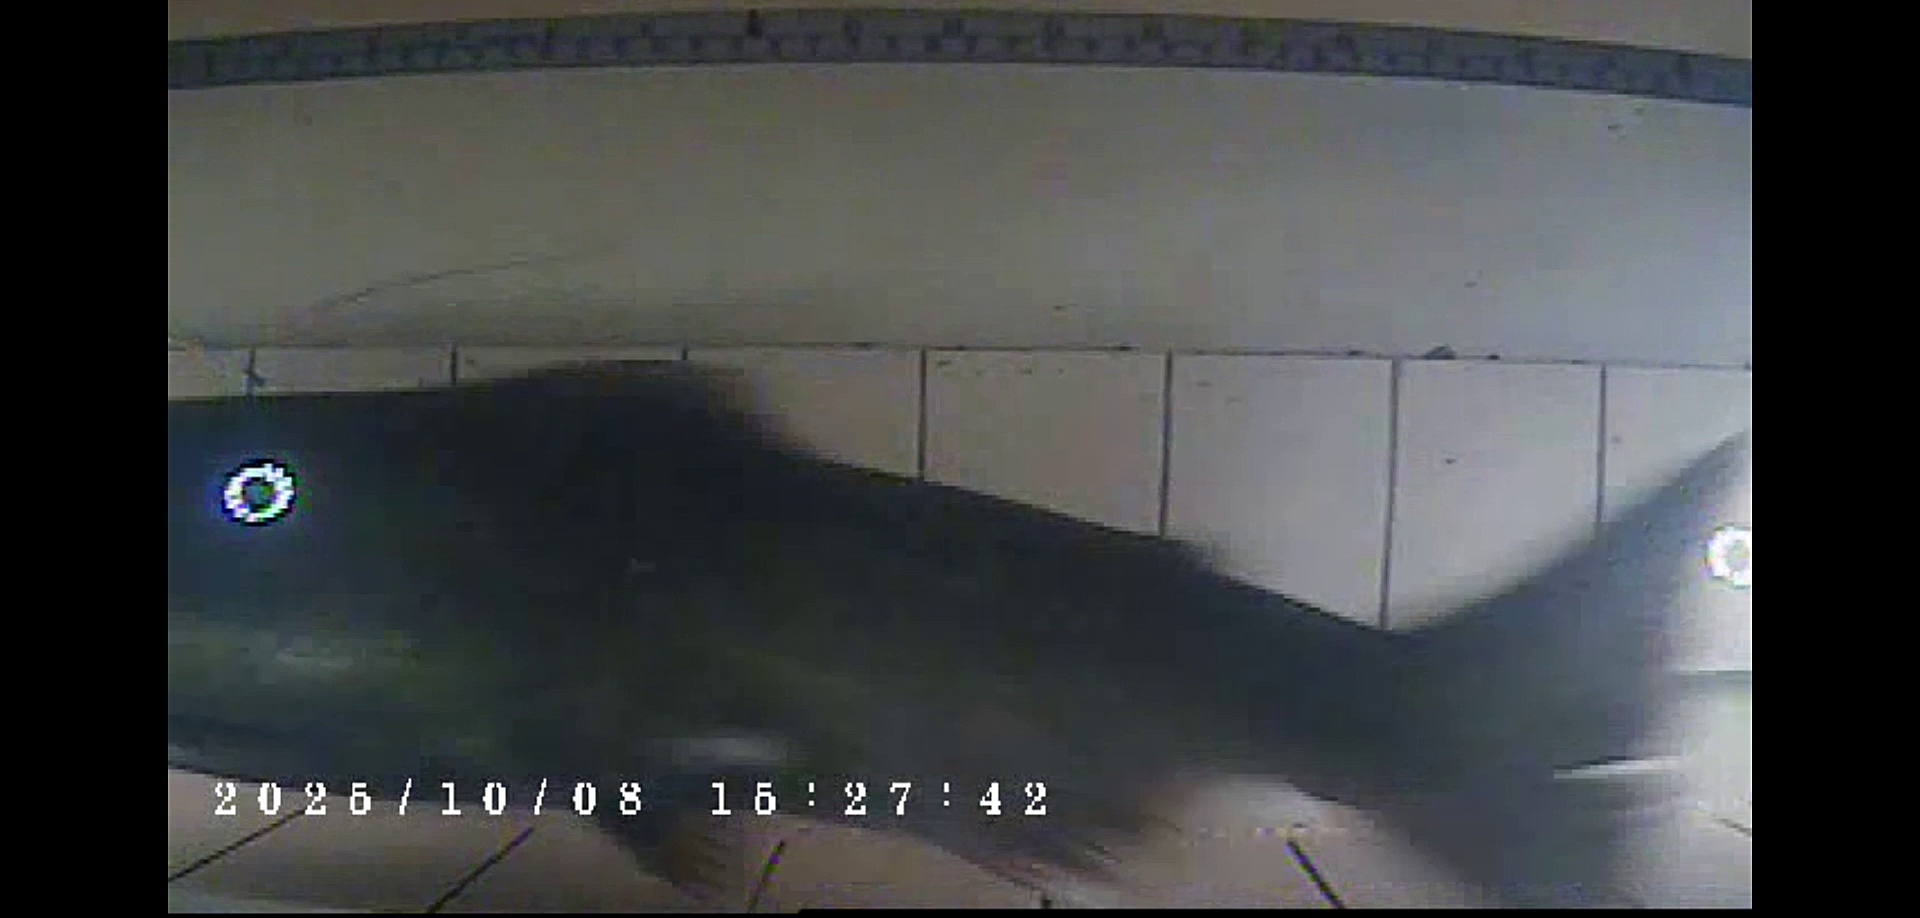
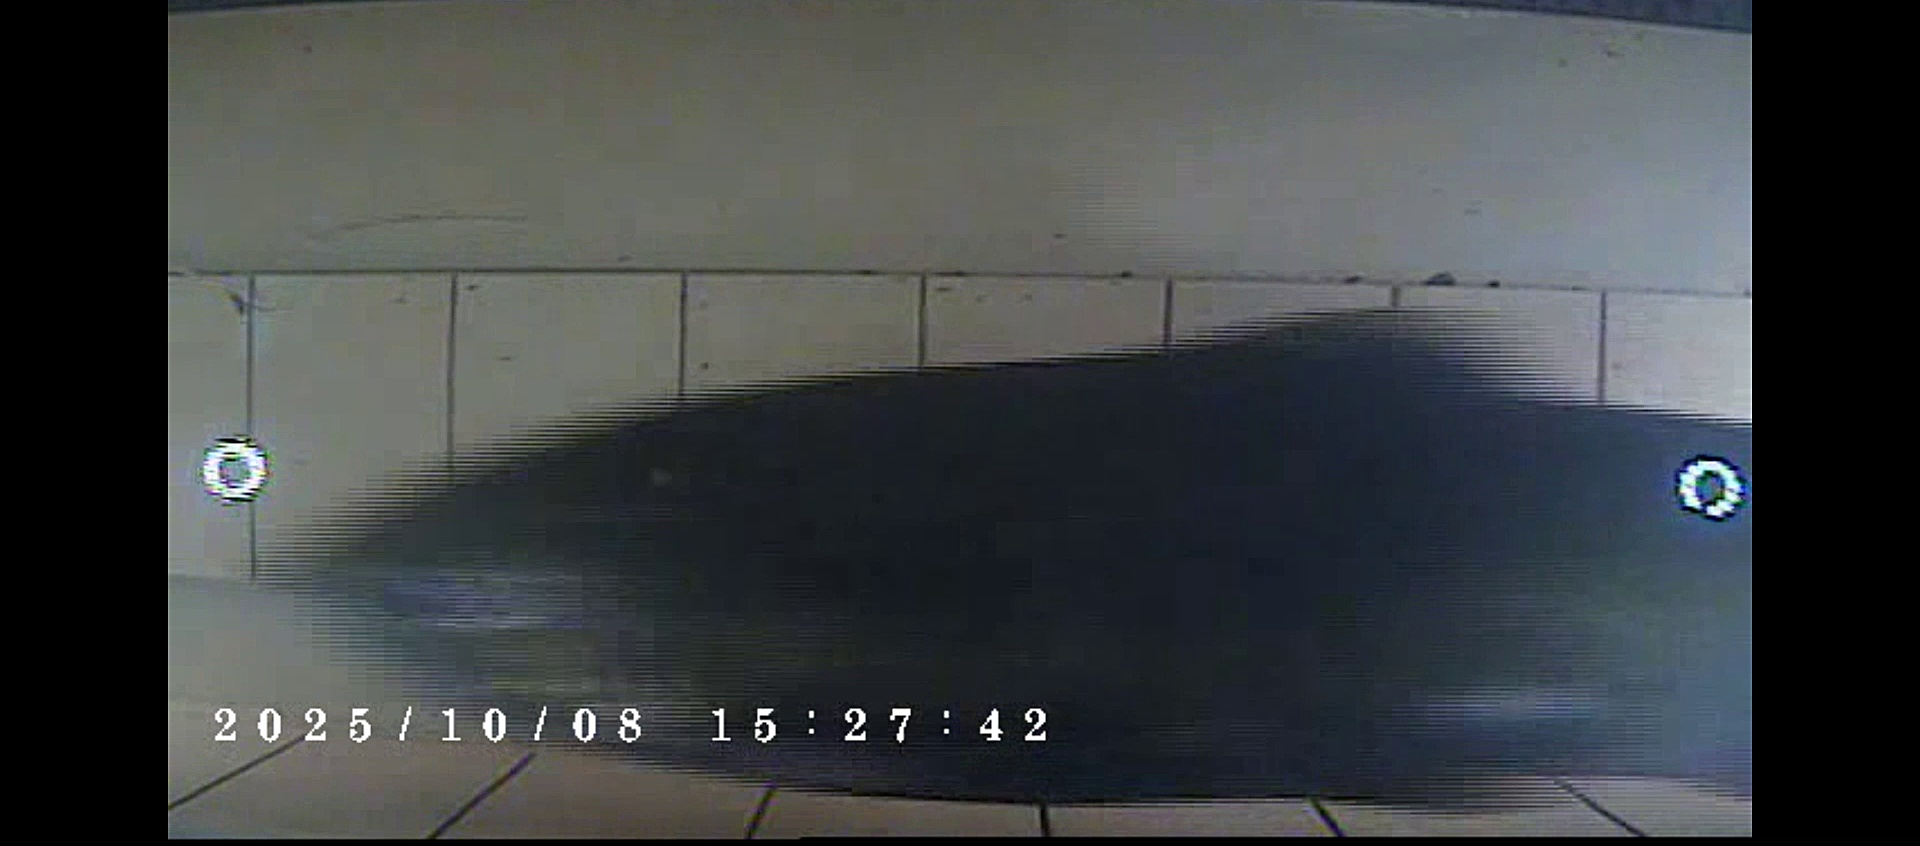
Added 5 and 6 reference images to fix distinction

diff --git a/extract_timestamp.py b/extract_timestamp.py
@@ -8,10 +8,175 @@ import cv2
 import numpy as np
 import pytesseract
 import re
-from datetime import datetime
+import os
+from datetime import datetime, timedelta
 from collections import Counter
 
 pytesseract.pytesseract.tesseract_cmd = r'C:\Program Files\Tesseract-OCR\tesseract.exe'
+
+DIGIT_TEMPLATE_DIR = os.path.join(os.path.dirname(__file__), "ocr_digit_templates")
+AMBIGUOUS_DIGITS = {"5", "6"}
+TEMPLATE_SIZE = (20, 32)
+TEMPLATE_SINGLE_MAX_DIFF = float(os.getenv("FISHLENS_DIGIT_TEMPLATE_MAX_DIFF", "35"))
+TEMPLATE_SWITCH_MARGIN = float(os.getenv("FISHLENS_DIGIT_TEMPLATE_SWITCH_MARGIN", "6"))
+_DIGIT_TEMPLATE_CACHE = None
+_DIGIT_TEMPLATE_CACHE_MTIMES = None
+
+
+def _normalize_digit_patch(patch):
+    if patch is None or patch.size == 0:
+        return None
+    if len(patch.shape) == 3 and patch.shape[2] > 1:
+        patch = cv2.cvtColor(patch, cv2.COLOR_BGR2GRAY)
+    elif len(patch.shape) == 3 and patch.shape[2] == 1:
+        patch = patch[:, :, 0]
+    patch = cv2.resize(patch, TEMPLATE_SIZE, interpolation=cv2.INTER_AREA)
+    _, patch = cv2.threshold(patch, 0, 255, cv2.THRESH_BINARY + cv2.THRESH_OTSU)
+    return patch
+
+
+def _load_digit_templates():
+    global _DIGIT_TEMPLATE_CACHE, _DIGIT_TEMPLATE_CACHE_MTIMES
+    if _DIGIT_TEMPLATE_CACHE is not None and _DIGIT_TEMPLATE_CACHE_MTIMES is not None:
+        # If template files have not changed, reuse cache.
+        unchanged = True
+        for digit in AMBIGUOUS_DIGITS:
+            found_path = None
+            for ext in ("png", "PNG", "jpg", "JPG", "jpeg", "JPEG"):
+                p = os.path.join(DIGIT_TEMPLATE_DIR, f"{digit}.{ext}")
+                if os.path.exists(p):
+                    found_path = p
+                    break
+
+            prev = _DIGIT_TEMPLATE_CACHE_MTIMES.get(digit)
+            cur = os.path.getmtime(found_path) if found_path and os.path.exists(found_path) else None
+            if prev != cur:
+                unchanged = False
+                break
+
+        if unchanged:
+            return _DIGIT_TEMPLATE_CACHE
+
+    # Rebuild cache when first loading or when template files changed.
+    if _DIGIT_TEMPLATE_CACHE is not None:
+        _DIGIT_TEMPLATE_CACHE = None
+        _DIGIT_TEMPLATE_CACHE_MTIMES = None
+
+    if _DIGIT_TEMPLATE_CACHE is not None:
+        return _DIGIT_TEMPLATE_CACHE
+
+    templates = {}
+    mtimes = {}
+    for digit in AMBIGUOUS_DIGITS:
+        path = None
+        for ext in ("png", "PNG", "jpg", "JPG", "jpeg", "JPEG"):
+            candidate = os.path.join(DIGIT_TEMPLATE_DIR, f"{digit}.{ext}")
+            if os.path.exists(candidate):
+                path = candidate
+                break
+
+        if not path:
+            continue
+
+        img = cv2.imread(path, cv2.IMREAD_GRAYSCALE)
+        if img is None:
+            continue
+
+        normalized = _normalize_digit_patch(img)
+        if normalized is not None:
+            templates[digit] = normalized
+            mtimes[digit] = os.path.getmtime(path)
+
+    _DIGIT_TEMPLATE_CACHE = templates
+    _DIGIT_TEMPLATE_CACHE_MTIMES = mtimes
+    return _DIGIT_TEMPLATE_CACHE
+
+
+def _resolve_ambiguous_digit(char_img, raw_char):
+    templates = _load_digit_templates()
+    if raw_char not in AMBIGUOUS_DIGITS or not templates:
+        return raw_char
+
+    normalized = _normalize_digit_patch(char_img)
+    if normalized is None:
+        return raw_char
+
+    scores = {}
+    for digit, template in templates.items():
+        diff = cv2.absdiff(normalized, template)
+        scores[digit] = float(np.mean(diff))
+
+    if not scores:
+        return raw_char
+
+    if len(scores) == 1:
+        only_digit, only_score = next(iter(scores.items()))
+        # With only one template present, never force-convert to the other digit.
+        # This avoids cases where missing 5.png causes 5 -> 6 flips.
+        if only_digit == raw_char and only_score <= TEMPLATE_SINGLE_MAX_DIFF:
+            return raw_char
+        return raw_char
+
+    best_digit = min(scores, key=scores.get)
+    best_score = scores[best_digit]
+    raw_score = scores.get(raw_char)
+
+    # If the best template match is still poor, keep Tesseract's original digit.
+    if best_score > TEMPLATE_SINGLE_MAX_DIFF:
+        return raw_char
+
+    # Keep original when it is already the best match.
+    if best_digit == raw_char:
+        return raw_char
+
+    # Only switch digits when the winning template is clearly better.
+    if raw_score is None or (raw_score - best_score) < TEMPLATE_SWITCH_MARGIN:
+        return raw_char
+
+    return best_digit
+
+
+def _extract_text_from_boxes(processed, custom_config):
+    """
+    Build OCR text from per-character boxes and apply optional 5/6 disambiguation
+    using user-supplied templates in ocr_digit_templates/5.png and 6.png.
+    """
+    try:
+        boxes = pytesseract.image_to_boxes(processed, config=custom_config)
+    except Exception:
+        return ""
+
+    if not boxes:
+        return ""
+
+    h, _ = processed.shape[:2]
+    chars = []
+
+    for line in boxes.splitlines():
+        parts = line.strip().split()
+        if len(parts) < 5:
+            continue
+
+        raw_char = parts[0]
+        if not raw_char:
+            continue
+        raw_char = raw_char[0]
+
+        try:
+            x1, y1, x2, y2 = map(int, parts[1:5])
+        except Exception:
+            chars.append(raw_char)
+            continue
+
+        top = max(0, h - y2)
+        bottom = min(h, h - y1)
+        left = max(0, x1)
+        right = max(left + 1, x2)
+        char_img = processed[top:bottom, left:right]
+
+        chars.append(_resolve_ambiguous_digit(char_img, raw_char))
+
+    return "".join(chars).strip()
 
 
 # ****************************************************************
@@ -216,7 +381,26 @@ def parseTimestamp(text):
                 0 <= minute <= 59 and
                 0 <= second <= 59):
                 # Format properly: YYYY/MM/DD HH:MM:SS
-                return f"{year}/{month:02d}/{day:02d} {hour:02d}:{minute:02d}:{second:02d}"
+                normalized = f"{year}/{month:02d}/{day:02d} {hour:02d}:{minute:02d}:{second:02d}"
+
+                # Future-date sanity check for common OCR confusion 5 <-> 6 in year.
+                # If OCR yields a timestamp significantly in the future, prefer year-1
+                # when it produces a plausible non-future date.
+                try:
+                    parsed_dt = datetime.strptime(normalized, "%Y/%m/%d %H:%M:%S")
+                    now = datetime.now()
+                    future_grace = now + timedelta(days=2)
+
+                    yi = int(year)
+                    if parsed_dt > future_grace and yi - 1 >= 2020:
+                        corrected = f"{yi - 1:04d}/{month:02d}/{day:02d} {hour:02d}:{minute:02d}:{second:02d}"
+                        corrected_dt = datetime.strptime(corrected, "%Y/%m/%d %H:%M:%S")
+                        if corrected_dt <= future_grace:
+                            return corrected
+                except Exception:
+                    pass
+
+                return normalized
     
     return None
 
@@ -259,15 +443,60 @@ def extractTimestamFromFrame(frame, debug=False):
         # Perform OCR
         text = pytesseract.image_to_string(processed, config=custom_config)
         text = text.strip()
+        box_text = _extract_text_from_boxes(processed, custom_config)
         
         if debug:
             print(f"  OCR raw output: '{text}'")
+            if box_text:
+                print(f"  OCR box output: '{box_text}'")
         
-        if len(text) < 15:  # Timestamp should be at least 15 chars
+        # Prefer per-character boxes first because they pass through 5/6 template
+        # disambiguation (_resolve_ambiguous_digit).
+        candidates = [t for t in [box_text, text] if t]
+        if not candidates:
             return None, None
-        
-        # Parse the timestamp - gets (timestamp, confidence) tuple
-        result = _parseTimestampWithConfidence(text)
+
+        # Parse all OCR candidates, then choose best using conservative tie-breakers.
+        parsed_results = []
+        for idx, candidate in enumerate(candidates):
+            if len(candidate) < 15:  # Timestamp should be at least 15 chars
+                continue
+            parsed = _parseTimestampWithConfidence(candidate)
+            if parsed:
+                parsed_results.append((idx, candidate, parsed[0], parsed[1]))
+
+        if not parsed_results:
+            return None, None
+
+        # Keep earliest candidate by default (boxes first, then raw OCR).
+        result = (parsed_results[0][2], parsed_results[0][3])
+
+        # If both candidates parsed and differ only by year, keep smaller year.
+        # This directly addresses persistent 5->6 year flips (e.g., 2025 vs 2026)
+        # while preserving month/day/time agreement.
+        if len(parsed_results) >= 2:
+            ts_values = [r[2] for r in parsed_results]
+            unique_ts = list(dict.fromkeys(ts_values))
+            if len(unique_ts) >= 2:
+                try:
+                    parts = []
+                    for ts in unique_ts[:2]:
+                        d, t = ts.split(" ", 1)
+                        y, m, day = d.split("/")
+                        parts.append((int(y), m, day, t, ts))
+
+                    a, b = parts[0], parts[1]
+                    if a[1] == b[1] and a[2] == b[2] and a[3] == b[3] and abs(a[0] - b[0]) == 1:
+                        chosen_ts = a[4] if a[0] < b[0] else b[4]
+                        chosen_conf = None
+                        for r in parsed_results:
+                            if r[2] == chosen_ts:
+                                chosen_conf = r[3]
+                                break
+                        if chosen_conf is not None:
+                            result = (chosen_ts, chosen_conf)
+                except Exception:
+                    pass
         
         if result and result[0] and debug:
             print(f"  Parsed timestamp: {result[0]} (confidence: {result[1]})")

diff --git a/main.py b/main.py
@@ -639,11 +639,28 @@ def deepsort_analysis(tracker, frame, frameData, vidData, timestamp_max_attempts
                 track_data["timestamp_attempts"] = attempts + 1
 
                 if result and result[0]:  # result is (timestamp, confidence) tuple
+                    parsed_ts = result[0]
+                    parsed_conf = result[1]
+
+                    # Keep video-level date stable when direct OCR drifts by year/day.
+                    # Example: video probe found 2025/09/27, direct OCR returns 2026/09/27.
+                    base_ts = vidData.v_video_timestamp
+                    if base_ts and base_ts != "Not detected" and " " in base_ts and " " in parsed_ts:
+                        try:
+                            base_date, _ = base_ts.split(" ", 1)
+                            cand_date, cand_time = parsed_ts.split(" ", 1)
+                            if cand_date != base_date:
+                                parsed_ts = f"{base_date} {cand_time}"
+                                # Mark as at most MEDIUM confidence because a correction was applied.
+                                parsed_conf = "MEDIUM" if parsed_conf == "HIGH" else parsed_conf
+                        except Exception:
+                            pass
+
                     old_ts = current_ts
                     old_conf = current_confidence
-                    track_data["video_timestamp"] = result[0]
-                    track_data["timestamp_confidence"] = result[1]
-                    print(f"    Track {trackId}: Updated ts from '{old_ts}' ({old_conf}) to '{result[0]}' ({result[1]})")
+                    track_data["video_timestamp"] = parsed_ts
+                    track_data["timestamp_confidence"] = parsed_conf
+                    print(f"    Track {trackId}: Updated ts from '{old_ts}' ({old_conf}) to '{parsed_ts}' ({parsed_conf})")
                 elif track_data["timestamp_attempts"] == timestamp_max_attempts and current_confidence is None:
                     print(f"    Could not extract timestamp after {timestamp_max_attempts} attempts")
                     if SAVE_TIMESTAMP_DEBUG_FRAMES:
